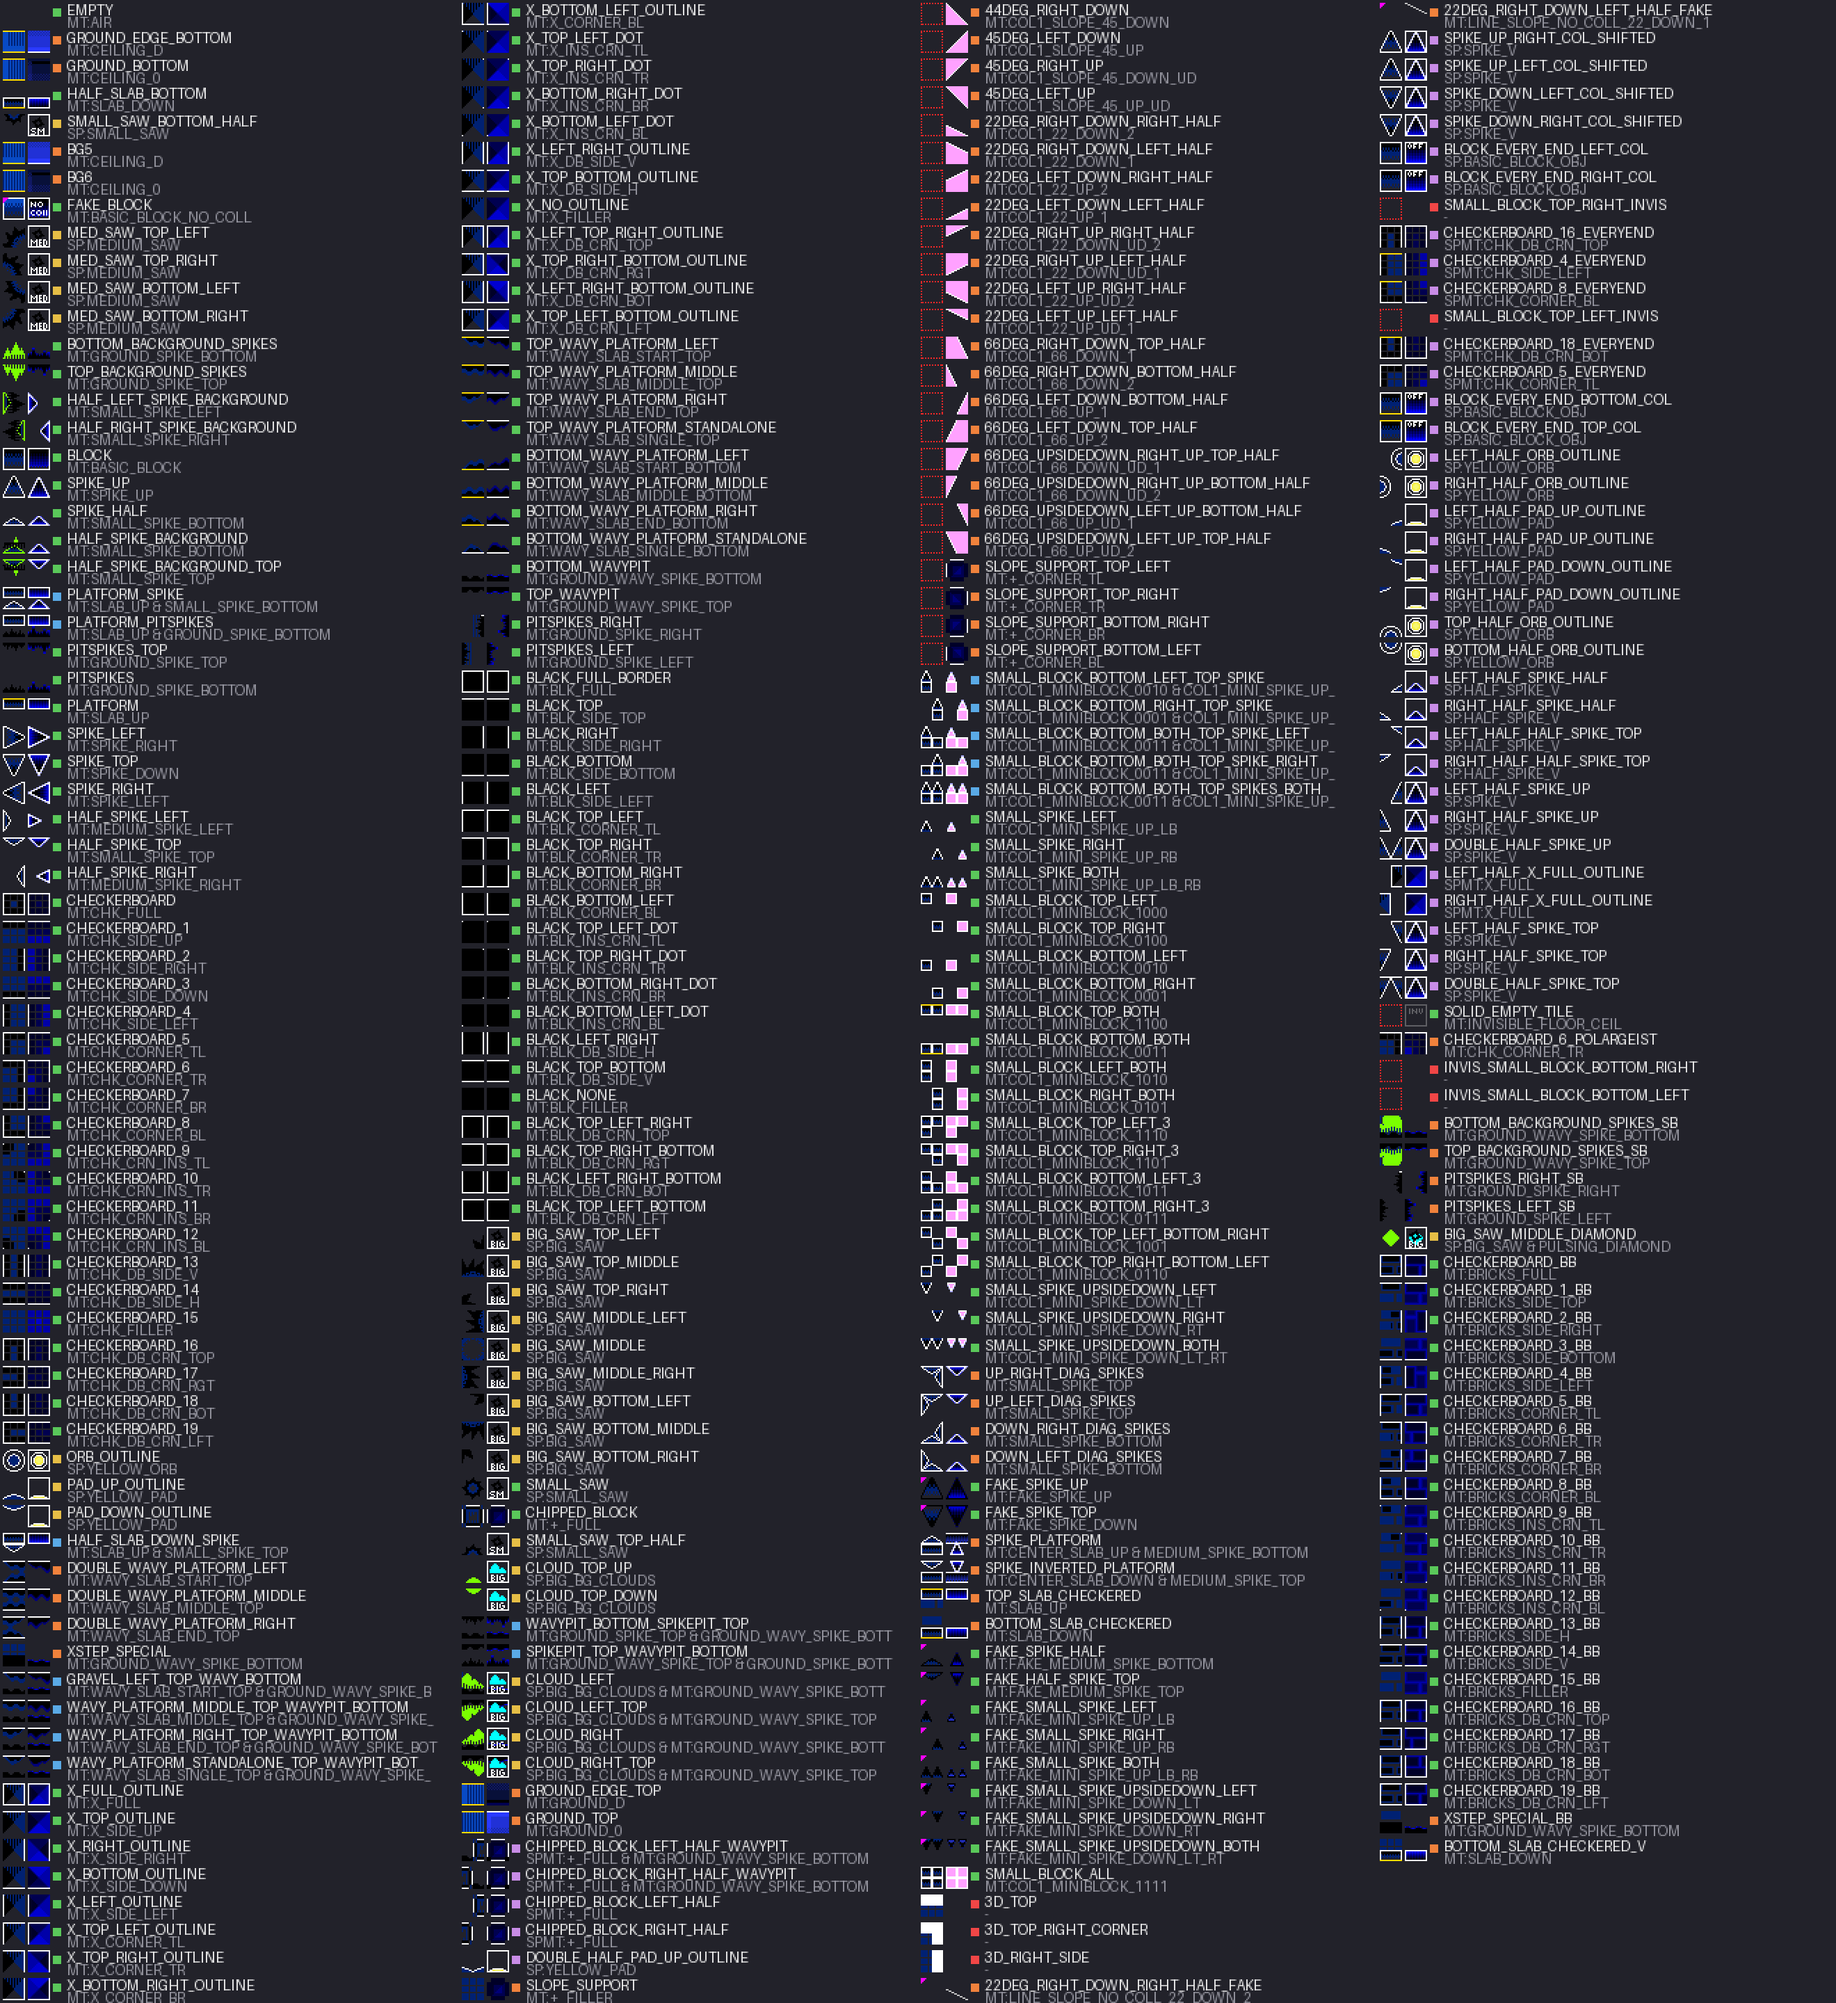
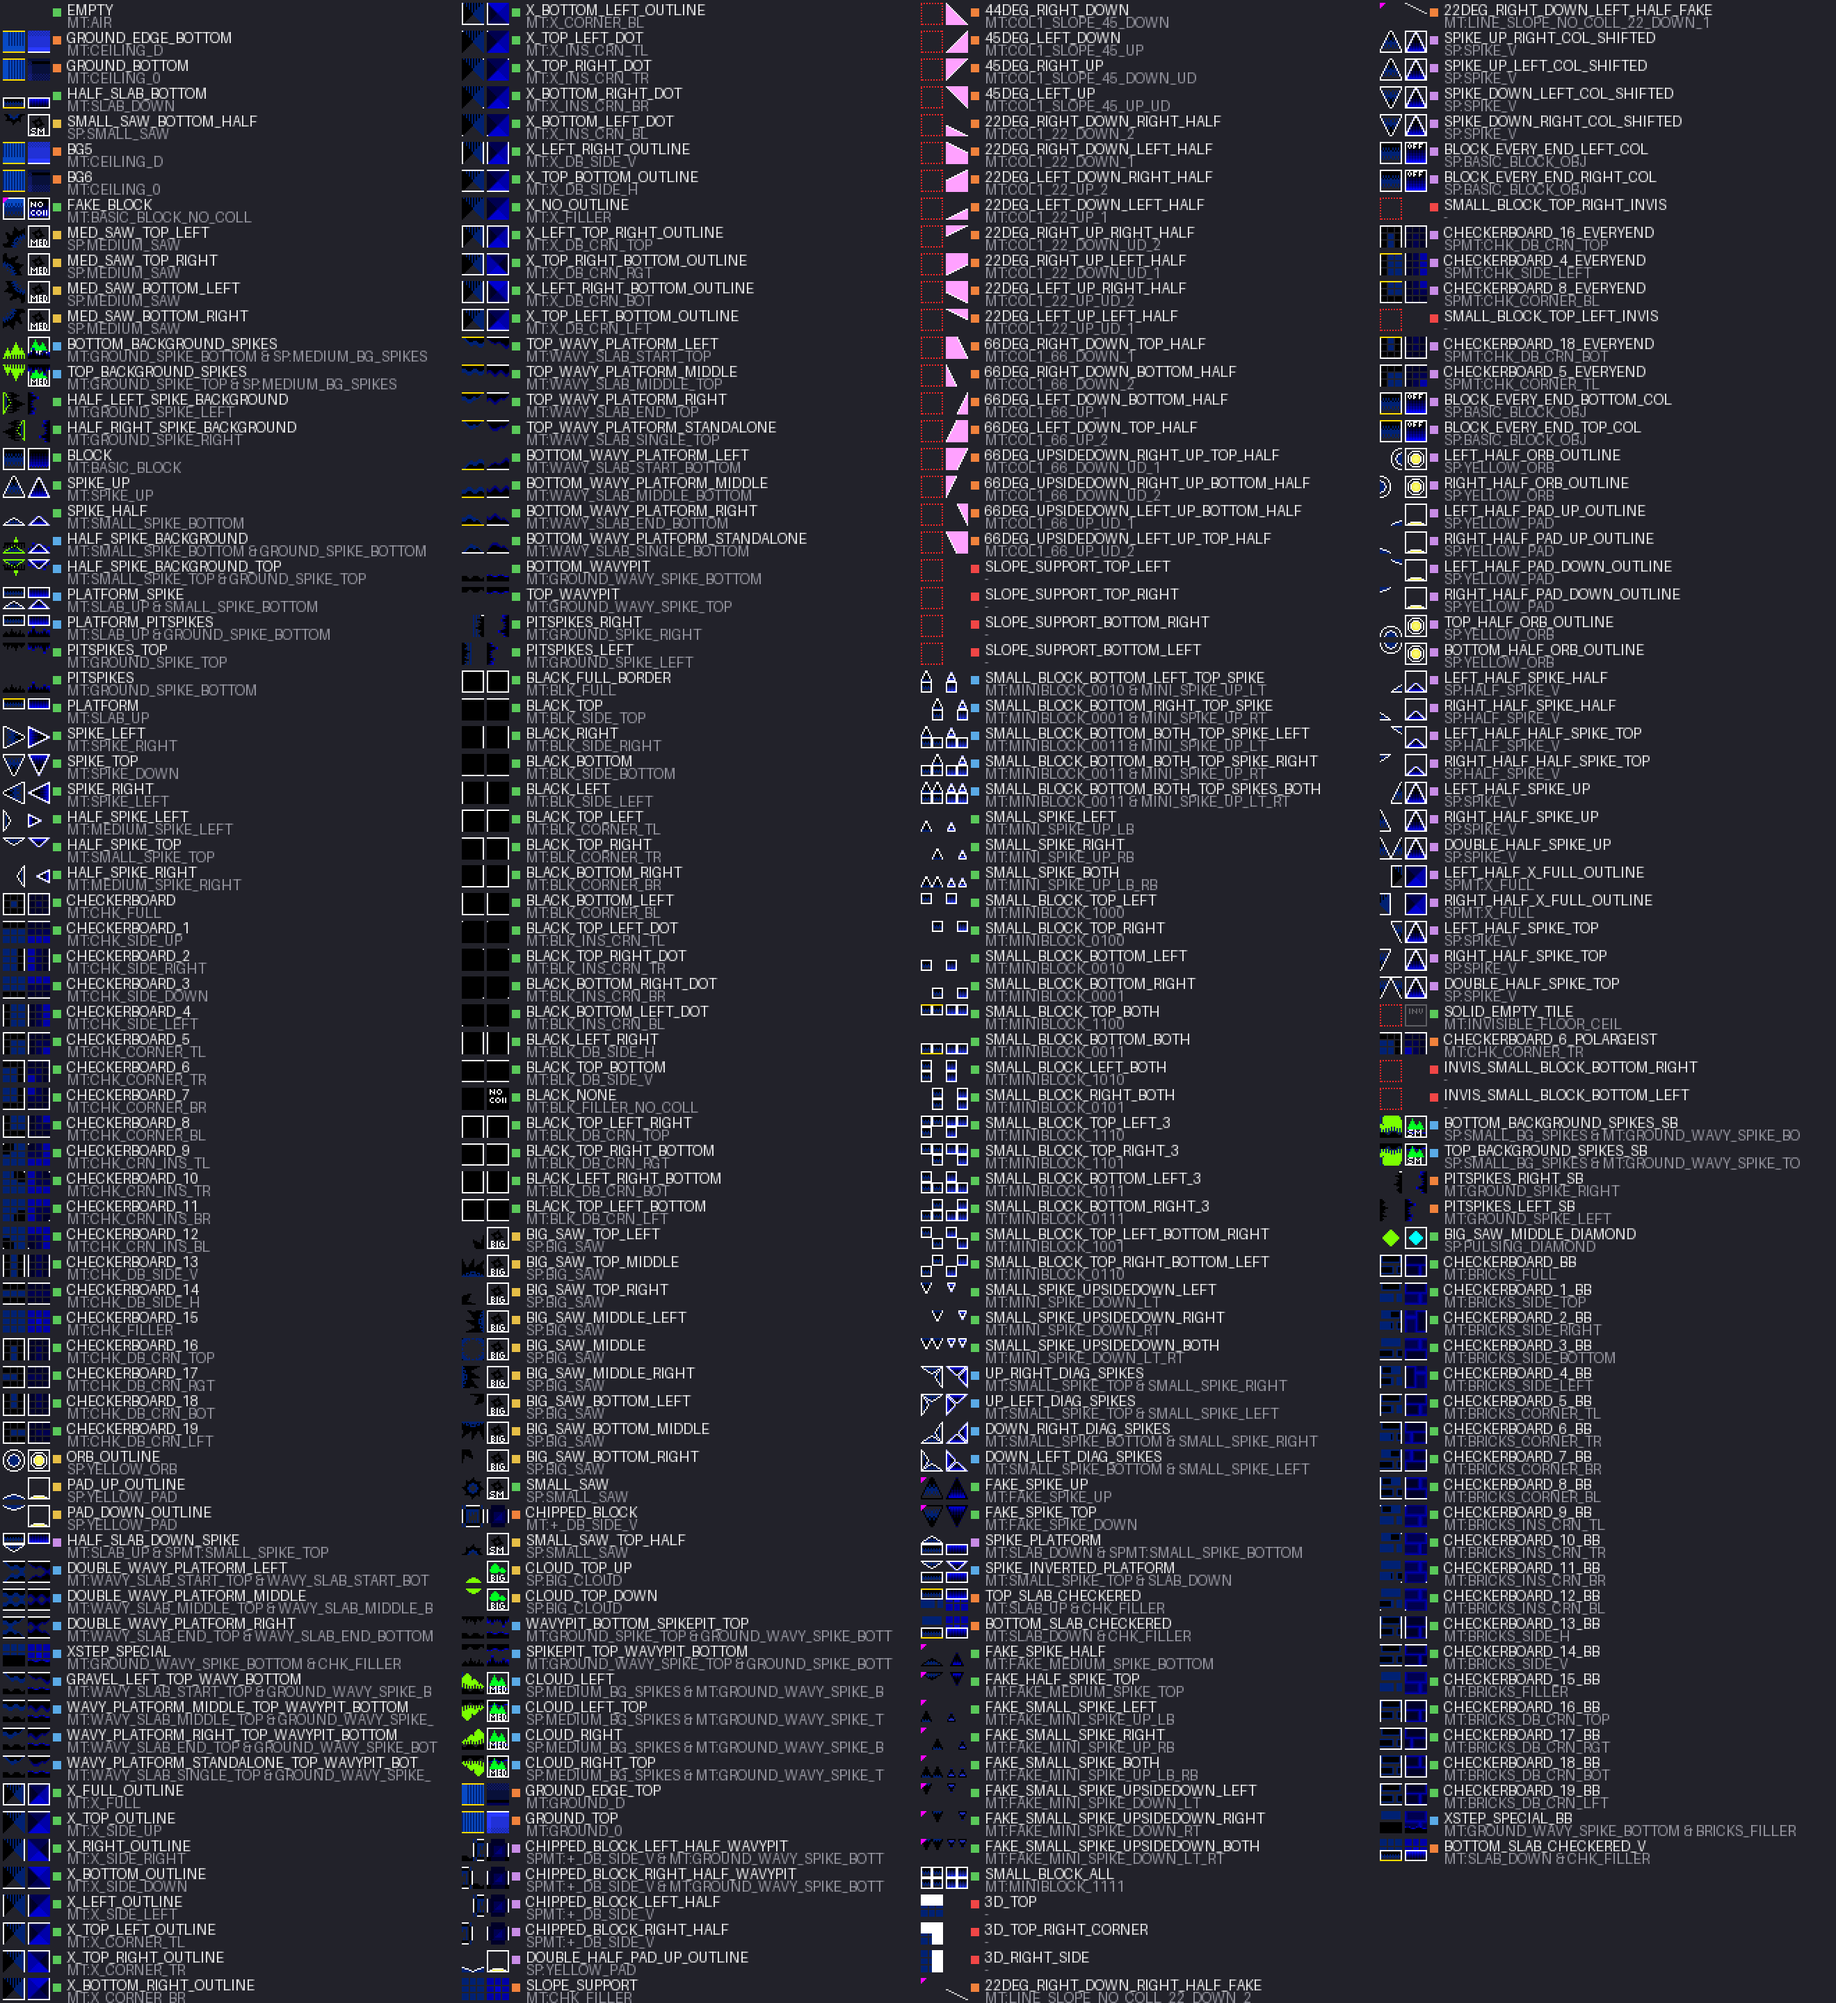
GDA mapping fixes after checking every pair
Background half spikes are pit spikes on a wall, the diagonal spikes are corner cells
with two small spikes, mini spikes / mini blocks are GDA's plain pieces, the black
filler is GDA's no-collision filler; double wavy platforms, Xstep pieces, slab+spike
pieces, chipped blocks, clouds / background spike bushes and the diamond corrected.
A label can now mix metatiles and sprites ("MT:A & SP:B").

diff --git a/tools/gda_match.py b/tools/gda_match.py
@@ -189,6 +189,17 @@ def main():
 
 
 
+def parse_label(label):
+    """"MT:A & B & SP:C" -> [("MT", "A"), ("MT", "B"), ("SP", "C")]: each part keeps the kind
+    before it (MT metatile, SP sprite object, SPMT metatile placed as a sprite), first one drawn on top"""
+    out, kind = [], None
+    for part in label.split(" & "):
+        if ":" in part:
+            kind, part = part.split(":", 1)
+        out.append((kind, part))
+    return out
+
+
 def review():
     """docs/gda_ours.png: each of our objects next to its GDA object (levels/objects/gda_ours.json)"""
     import json
@@ -212,11 +223,7 @@ def review():
         img.paste(o, (x0 + 2, y0 + 2), o)
         icon = Image.new("RGBA", (16, 16))
         if m["gda"]:
-            kind, rest = m["gda"].split(":", 1)
-            for part in reversed(rest.split(" & ")):
-                k2 = kind
-                if part.startswith("MT:"):
-                    k2, part = "MT", part[3:]
+            for k2, part in reversed(parse_label(m["gda"])):
                 t = gda.sprite_image(sp_index[part]) if k2 == "SP" else gda.metatile_image(mt_index[part])
                 icon.paste(t, (0, 0), t)
         img.paste(icon, (x0 + 20, y0 + 2), icon)
